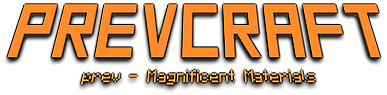
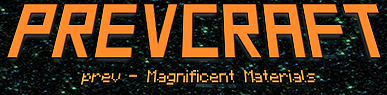
0.0.2-1.19.2 UPDATE — Added Mithril's ore and metal blocks, and their textures. Updated the logofile and metadata again, swapping to GNU GPLv3.

diff --git a/src/main/java/com/prev/prevmm/block/ModBlocks.java b/src/main/java/com/prev/prevmm/block/ModBlocks.java
@@ -1,0 +1,62 @@
+package com.prev.prevmm.block;
+
+import com.prev.prevmm.Main;
+import com.prev.prevmm.item.ModCreativeModeTab;
+import com.prev.prevmm.item.ModItems;
+import net.minecraft.util.valueproviders.UniformInt;
+import net.minecraft.world.item.BlockItem;
+import net.minecraft.world.item.CreativeModeTab;
+import net.minecraft.world.item.Item;
+import net.minecraft.world.level.block.Block;
+import net.minecraft.world.level.block.DropExperienceBlock;
+import net.minecraft.world.level.block.state.BlockBehaviour;
+import net.minecraft.world.level.material.Material;
+import net.minecraftforge.eventbus.api.IEventBus;
+import net.minecraftforge.registries.DeferredRegister;
+import net.minecraftforge.registries.ForgeRegistries;
+import net.minecraftforge.registries.RegistryObject;
+import java.util.function.Supplier;
+
+public class ModBlocks {
+
+    public static final DeferredRegister<Block> BLOCKS = DeferredRegister.create(ForgeRegistries.BLOCKS, Main.MOD_ID);
+
+    // section below is where each block is added
+
+    public static final RegistryObject<Block> MITHRIL_ORE = registerBlock("mithril_ore",
+            () -> new DropExperienceBlock(BlockBehaviour.Properties.of(Material.STONE)
+                    .strength(6f).requiresCorrectToolForDrops(),
+                    UniformInt.of(16,20)), ModCreativeModeTab.PREVMM_TAB_1);
+    public static final RegistryObject<Block> DEEPSLATE_MITHRIL_ORE = registerBlock("deepslate_mithril_ore",
+            () -> new DropExperienceBlock(BlockBehaviour.Properties.of(Material.STONE)
+                    .strength(6f).requiresCorrectToolForDrops(),
+                    UniformInt.of(16,20)), ModCreativeModeTab.PREVMM_TAB_1);
+    public static final RegistryObject<Block> NETHERRACK_MITHRIL_ORE = registerBlock("netherrack_mithril_ore",
+            () -> new DropExperienceBlock(BlockBehaviour.Properties.of(Material.STONE)
+                    .strength(6f).requiresCorrectToolForDrops(),
+                    UniformInt.of(16,20)), ModCreativeModeTab.PREVMM_TAB_1);
+    public static final RegistryObject<Block> MITHRIL_RAW_BLOCK = registerBlock("mithril_raw_block",
+            () -> new Block(BlockBehaviour.Properties.of(Material.STONE)
+                    .strength(6f).requiresCorrectToolForDrops()), ModCreativeModeTab.PREVMM_TAB_1);
+    public static final RegistryObject<Block> MITHRIL_BLOCK = registerBlock("mithril_block",
+            () -> new Block(BlockBehaviour.Properties.of(Material.METAL)
+                    .strength(6f).requiresCorrectToolForDrops()), ModCreativeModeTab.PREVMM_TAB_1);
+
+    // end section
+
+    private static <T extends Block> RegistryObject<T> registerBlock(String name, Supplier<T> block, CreativeModeTab tab) {
+        RegistryObject<T> toReturn = BLOCKS.register(name, block);
+        registerBlockItem(name, toReturn, tab);
+        return toReturn;
+    }
+
+    private static <T extends Block> RegistryObject<Item> registerBlockItem(String name, RegistryObject<T> block, CreativeModeTab tab) {
+
+        return ModItems.ITEMS.register(name, () -> new BlockItem(block.get(), new Item.Properties().tab(tab)));
+    }
+
+    public static void register(IEventBus eventBus) {
+        BLOCKS.register(eventBus);
+    }
+
+}

diff --git a/src/main/java/com/prev/prevmm/Main.java b/src/main/java/com/prev/prevmm/Main.java
@@ -1,6 +1,7 @@
 package com.prev.prevmm;
 
 //import com.mojang.logging.LogUtils;
+import com.prev.prevmm.block.ModBlocks;
 import com.prev.prevmm.item.ModItems;
 import net.minecraftforge.api.distmarker.Dist;
 import net.minecraftforge.common.MinecraftForge;
@@ -20,6 +21,7 @@ public class Main {
     public Main() {
         IEventBus modEventBus = FMLJavaModLoadingContext.get().getModEventBus();
         ModItems.register(modEventBus);
+        ModBlocks.register(modEventBus);
         modEventBus.addListener(this::commonSetup);
         MinecraftForge.EVENT_BUS.register(this);
     }
